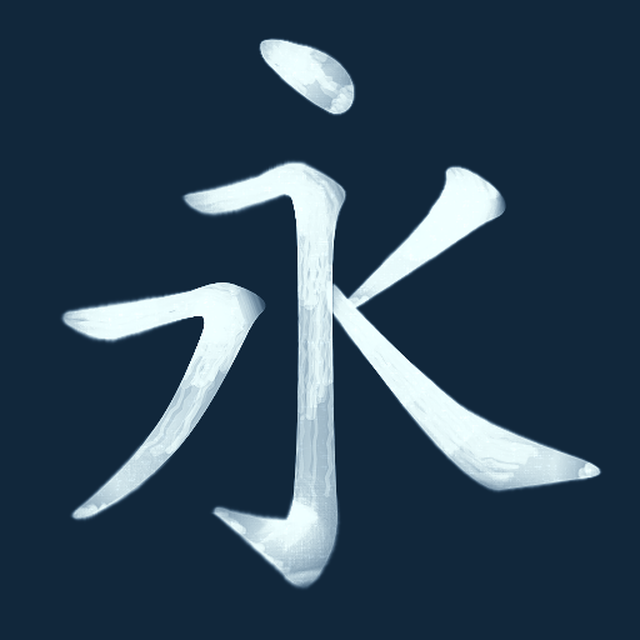
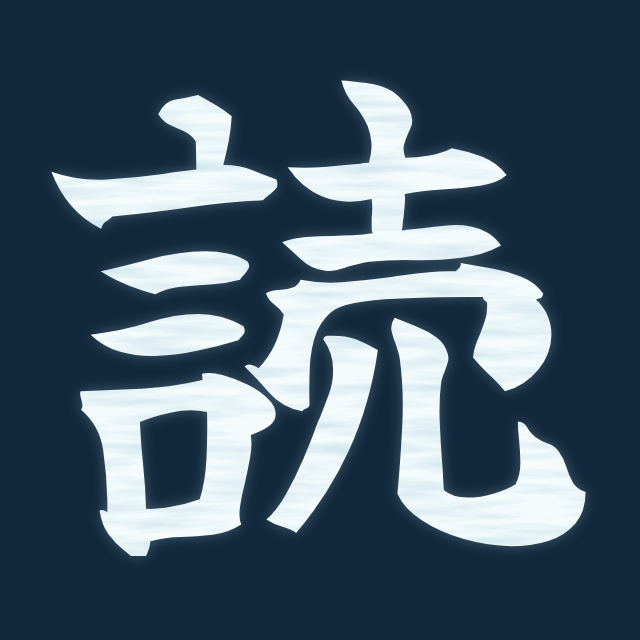
Read (T3): the shelf seal is 読, read, not 永
John asked why the Water kanji marks the bookshelf. The seal was 永 (forever),
a calligrapher's emblem that reads as 水 at 36 px and says nothing about reading.
It is now 読 (yomu, read), the Read tab's own kanji, drawn in the bundled brush
face (Yuji Syuku), white on the same 藍 ground with the same dry-brush mottling.
The file keeps its path: the offline gates, the worker and the standalone build
pin the path and compare bytes with the build's own copy.

Claude-Session: https://claude.ai/code/session_019ibwfSsf2pXSRJS2RwFTeg

diff --git a/prototypes/corridor/corridor.js b/prototypes/corridor/corridor.js
@@ -5516,7 +5516,9 @@ function renderShelfBody() {
   // results line below come from the same tally, so they cannot disagree.
   const masthead = el('header', 'shelf-masthead');
   const title = el('div', 'shelf-mast-title');
-  // the 永 brush mark is the bookshelf's own small seal, set with its name — never a picture apart.
+  // the bookshelf's own small seal, set with its name — never a picture apart. It is 読 (yomu, "read"),
+  // the Read tab's own kanji, brushed white on 藍 (round 4, John T3: the old 永 read as 水 and said
+  // nothing about reading). The file keeps its path: the offline gates and the worker pin the path.
   // The standalone build inlines the artwork and names it here; a literal path would break it.
   const art = el('img', 'shelf-art'); art.src = window.__KAIRO_SHELF_ART_URL__ || 'design/ink-hoku-nami.png'; art.alt = ''; art.width = 640; art.height = 640;
   art.setAttribute('aria-hidden', 'true');
